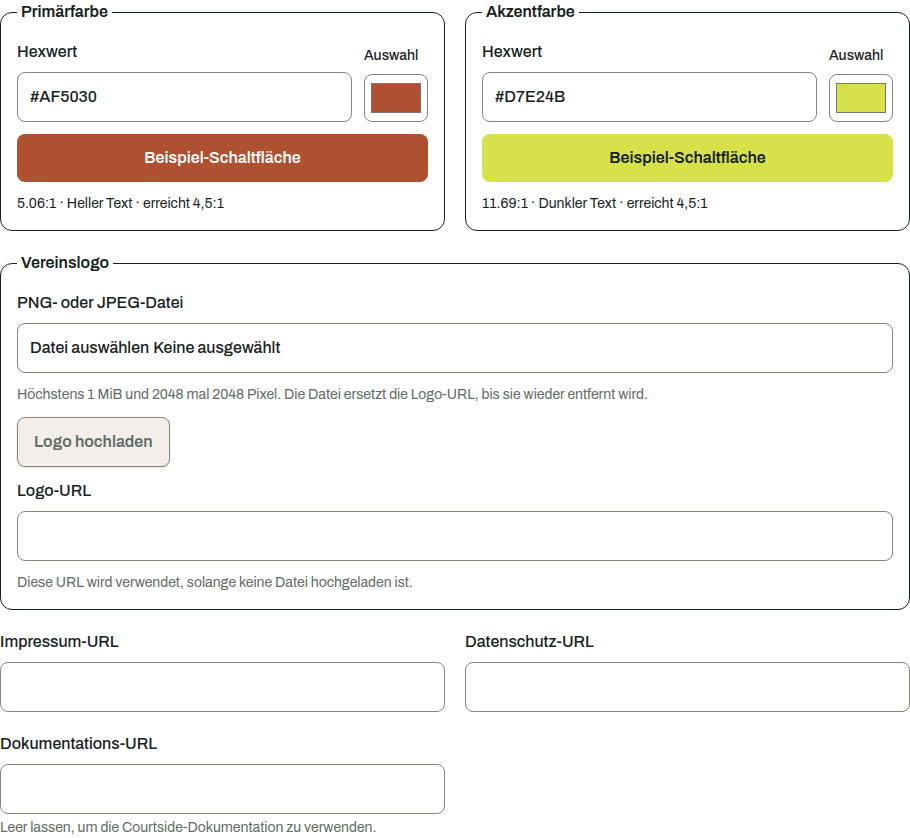
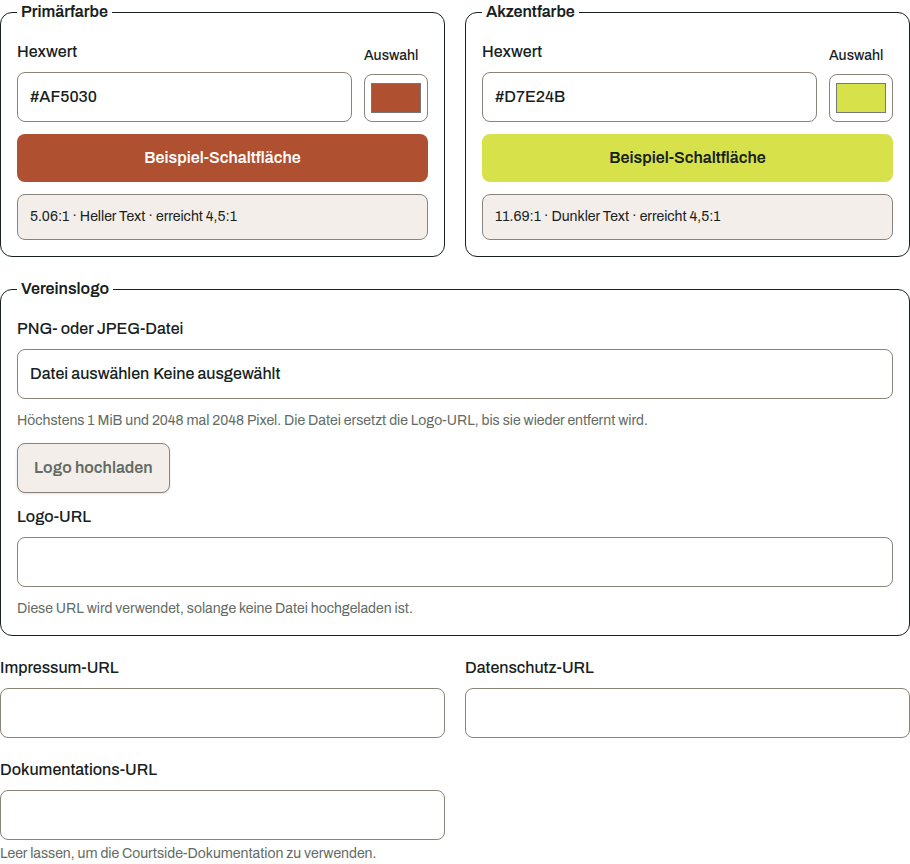
feat: give notices a warning and an informational tone (#1109)
* feat: give notices a warning and an informational tone

Alert knew only error and success, so a caution arrived as a red box with
role="alert", the same as a failed request. It now has warning and info
tones that announce themselves as status, and every tone draws its colours
from --cs-notice-* tokens defined for both appearances. Error and success
keep the colours they had.

The bounded change-log search, the club colour contrast warning, the
offline notices, the operational log caveats and the booking grid notice
move to the warning tone; the password-changed notice and the retention
note to info. The environment banners and two inline error texts leave
the fixed palette for the same tokens.

Closes #1083

* test: keep fixed palette colours out of the frontend

* fix: keep the environment banner loud and the contrast region in place

The UAT and performance banners and the missing-identity banner took the
inline notice tokens and faded into the page; they get their own
--cs-environment-* tokens with the fills they had. The colour contrast
result stays one output element whose tone moves between info and
warning, because a live region inserted with its content is not
announced when the ratio crosses 4.5:1.

The password-changed notice becomes a success, the permanent provenance
caveat an info, and a failed service-worker registration a warning. The
palette guard also reads CSS, arbitrary hex colours and Tailwind theme
[…]

diff --git a/frontend/e2e/bootstrap-admin.spec.ts b/frontend/e2e/bootstrap-admin.spec.ts
@@ -766,6 +766,45 @@ test("a disabled button and a focused field read differently from their resting 
   }
 });
 
+test("a caution reads as a warning rather than a failure in both appearances", async ({ page }) => {
+  // given
+  await page.goto("/login");
+  await page.getByTestId("username").fill("configuration-admin");
+  await page.getByTestId("password").fill("temporary-password");
+  await page.getByTestId("login-submit").click();
+  await page.getByTestId("administration-link").click();
+  await page.getByTestId("admin-configuration-link").click();
+  await expect(page.getByTestId("admin-configuration-view")).toBeVisible();
+  const caution = page.getByTestId("primary-color-contrast");
+
+  // when
+  await page.getByTestId("primary-color-value").fill("#777777");
+
+  // then
+  await expect(caution, "a caution is announced politely, not as an alert").toHaveRole("status");
+  for (const appearance of ["dark", "light"] as const) {
+    if (appearance === "light") await selectPreference(page, "#theme-preference", appearance);
+    const tone = (name: string) => page.evaluate((token) => {
+      const probe = document.createElement("span");
+      probe.style.background = `var(${token}-surface)`;
+      probe.style.color = `var(${token}-text)`;
+      document.body.append(probe);
+      const style = getComputedStyle(probe);
+      const colours = { background: style.backgroundColor, text: style.color };
+      probe.remove();
+      return colours;
+    }, name);
+    const warning = await tone("--cs-notice-warning");
+    const error = await tone("--cs-notice-error");
+
+    await expect(caution, `${appearance}: a caution takes the warning surface`).toHaveCSS("background-color", warning.background);
+    await expect(caution, `${appearance}: a caution takes the warning text`).toHaveCSS("color", warning.text);
+    expect(warning.background, `${appearance}: the warning surface must differ from the error surface`).not.toBe(error.background);
+    expect(await renderedContrast(page, caution, "color", caution), `${appearance}: the caution stays readable`)
+      .toBeGreaterThanOrEqual(4.5);
+  }
+});
+
 test("an admin adds a person, gives them an account, and that person signs in and books", async ({ page, journeyService }) => {
   // given
   await page.goto("/login");

diff --git a/frontend/src/views/AdminConfigurationView.test.tsx b/frontend/src/views/AdminConfigurationView.test.tsx
@@ -158,6 +158,25 @@ describe("AdminConfigurationView", () => {
     expect(screen.getByTestId("primary-color-preview")).toHaveStyle({ backgroundColor: "#777777" });
     expect(screen.getByTestId("primary-color-contrast")).toHaveTextContent("4.33:1");
     expect(screen.getByTestId("primary-color-contrast")).toHaveTextContent("does not reach 4.5:1");
+    expect(screen.getByTestId("primary-color-contrast").className, "a failing ratio is shown in the warning tone")
+      .toContain("bg-(--cs-notice-warning-surface)");
+  });
+
+  it("given a primary colour that passes, when a new one fails, then the same live region reports the change", async () => {
+    // given
+    render(<MemoryRouter><UnsavedChangesProvider><AdminConfigurationView configurationChanged={() => undefined} /></UnsavedChangesProvider></MemoryRouter>);
+    const picker = await screen.findByTestId("primary-color-picker");
+    fireEvent.change(picker, { target: { value: "#17211d" } });
+    const passing = screen.getByTestId("primary-color-contrast");
+    expect(passing).toHaveTextContent("reaches 4.5:1");
+
+    // when
+    fireEvent.change(picker, { target: { value: "#777777" } });
+
+    // then
+    expect(screen.getByTestId("primary-color-contrast"), "a region inserted with its content is not announced").toBe(passing);
+    expect(passing).toHaveTextContent("does not reach 4.5:1");
+    expect(passing.tagName, "a computed result stays an output").toBe("OUTPUT");
   });
 
   it("given a high contrast accent colour, when it is shown, then the preview names the automatic text tone", async () => {
@@ -168,6 +187,8 @@ describe("AdminConfigurationView", () => {
     expect(await screen.findByTestId("accent-color-picker")).toHaveValue("#d7e24b");
     expect(screen.getByTestId("accent-color-contrast")).toHaveTextContent("Dark text");
     expect(screen.getByTestId("accent-color-contrast")).toHaveTextContent("reaches 4.5:1");
+    expect(screen.getByTestId("accent-color-contrast").className, "a passing ratio carries no warning")
+      .not.toContain("--cs-notice-warning");
   });
 
   it("given a board logo file, when uploading it, then the effective preview and shell configuration change", async () => {

diff --git a/frontend/src/views/AdminConfigurationView.tsx b/frontend/src/views/AdminConfigurationView.tsx
@@ -15,6 +15,7 @@ import {
 import { useReportedFailure } from "../failures/useReportedFailure";
 import { LocaleSelect } from "../components/LocaleSelect";
 import { Alert } from "../components/Alert";
+import { noticeColours } from "../components/noticeTones";
 import { Button } from "../components/Button";
 import { TextField } from "../components/TextField";
 import { SuccessFeedback } from "../components/SuccessFeedback";
@@ -39,6 +40,11 @@ function BrandColorField({ kind, label, value, changed }: {
   const { t } = useTranslation();
   const contrast = brandContrast(value);
   const id = `${kind}-color`;
+  const contrastSummary = contrast && t("admin.config.colorContrast", {
+    ratio: contrast.ratio.toFixed(2),
+    tone: t(contrast.tone === "dark" ? "admin.config.colorDarkText" : "admin.config.colorLightText"),
+    result: t(contrast.ratio >= 4.5 ? "admin.config.colorContrastPass" : "admin.config.colorContrastWarning")
+  });
   return <fieldset className="min-w-0 grid gap-3 rounded-xl border p-4">
     <legend className="px-1 font-semibold">{label}</legend>
     <div className="grid grid-cols-[minmax(0,1fr)_4rem] items-end gap-3">
@@ -56,12 +62,9 @@ function BrandColorField({ kind, label, value, changed }: {
               style={{ backgroundColor: value, color: contrast.textColor }}>
         {t("admin.config.colorPreview")}
       </button>
-      <output data-testid={`${id}-contrast`} className={contrast.ratio >= 4.5 ? "text-sm" : "text-sm font-semibold text-amber-700 dark:text-amber-300"}>
-        {t("admin.config.colorContrast", {
-          ratio: contrast.ratio.toFixed(2),
-          tone: t(contrast.tone === "dark" ? "admin.config.colorDarkText" : "admin.config.colorLightText"),
-          result: t(contrast.ratio >= 4.5 ? "admin.config.colorContrastPass" : "admin.config.colorContrastWarning")
-        })}
+      <output data-testid={`${id}-contrast`}
+              className={`rounded-lg border p-3 text-sm ${noticeColours(contrast.ratio >= 4.5 ? "info" : "warning")}`}>
+        {contrastSummary}
       </output>
     </>}
   </fieldset>;

diff --git a/frontend/src/components/BuildIdentity.tsx b/frontend/src/components/BuildIdentity.tsx
@@ -85,7 +85,7 @@ export function BuildIdentity({ source }: BuildIdentityProps) {
         <dt>{t("build.environment")}</dt><dd>{source.environment}</dd>
       </dl>
       <a className="mt-4 inline-block underline hover:no-underline" href={source.sourceUrl}>{t("footer.source")}</a>
-      {copyFailed && <p role="alert" className="mt-4 text-sm text-red-800 dark:text-red-200">{t("build.copyFailed")}</p>}
+      {copyFailed && <p role="alert" className="text-destructive mt-4 text-sm">{t("build.copyFailed")}</p>}
       <div className="mt-6 flex justify-end gap-3">
         <Button variant="primary" type="button" autoFocus data-testid="copy-build-identity" className="px-4 py-2" disabled={isCopying} onClick={() => void copyDiagnostics()}>
           {isCopied ? t("build.copied") : t("build.copy")}
@@ -99,12 +99,12 @@ export function BuildIdentity({ source }: BuildIdentityProps) {
 export function EnvironmentMarker({ source, identityStatus = "available" }: EnvironmentMarkerProps) {
   const { t } = useTranslation();
   if (identityStatus !== "available") {
-    return <div data-testid="environment-warning" role="alert" className="bg-red-200 px-5 py-2 text-center font-semibold text-red-950">
+    return <div data-testid="environment-warning" role="alert" className="bg-(--cs-environment-error-surface) px-5 py-2 text-center font-semibold text-(--cs-environment-error-text)">
       {t(identityStatus === "loading" ? "environment.loading" : "environment.unavailable")}
     </div>;
   }
   return source?.environment === "UAT" || source?.environment === "PERFORMANCE"
-    ? <div data-testid="environment-marker" role="status" className="bg-amber-200 px-5 py-2 text-center font-semibold text-amber-950">
+    ? <div data-testid="environment-marker" role="status" className="bg-(--cs-environment-warning-surface) px-5 py-2 text-center font-semibold text-(--cs-environment-warning-text)">
       {t(source.environment === "UAT" ? "environment.uat" : "environment.performance")}
     </div>
     : null;

diff --git a/frontend/src/styles.css b/frontend/src/styles.css
@@ -25,6 +25,22 @@
   --cs-current-time: var(--cs-ball);
   --cs-destructive: #ff8a80;
   --cs-destructive-text: #30110f;
+  --cs-notice-error-surface: oklch(25.8% 0.092 26.042);
+  --cs-notice-error-border: oklch(50.5% 0.213 27.518);
+  --cs-notice-error-text: oklch(93.6% 0.032 17.717);
+  --cs-notice-warning-surface: oklch(27.9% 0.077 45.635);
+  --cs-notice-warning-border: oklch(55.5% 0.163 48.998);
+  --cs-notice-warning-text: oklch(96.2% 0.059 95.617);
+  --cs-notice-success-surface: oklch(26.2% 0.051 172.552);
+  --cs-notice-success-border: oklch(50.8% 0.118 165.612);
+  --cs-notice-success-text: oklch(95% 0.052 163.051);
+  --cs-environment-warning-surface: oklch(92.4% 0.12 95.746);
+  --cs-environment-warning-text: oklch(27.9% 0.077 45.635);
+  --cs-environment-error-surface: oklch(88.5% 0.062 18.334);
+  --cs-environment-error-text: oklch(25.8% 0.092 26.042);
+  --cs-notice-info-surface: var(--cs-raised);
+  --cs-notice-info-border: var(--cs-border);
+  --cs-notice-info-text: var(--cs-text);
   font-family: "Archivo Variable", Archivo, ui-sans-serif, system-ui, sans-serif;
   color: var(--cs-text);
   background: var(--cs-page);
@@ -45,6 +61,15 @@
   --cs-current-time: var(--cs-clay);
   --cs-destructive: #a82820;
   --cs-destructive-text: #ffffff;
+  --cs-notice-error-surface: oklch(97.1% 0.013 17.38);
+  --cs-notice-error-border: oklch(80.8% 0.114 19.571);
+  --cs-notice-error-text: oklch(39.6% 0.141 25.723);
+  --cs-notice-warning-surface: oklch(98.7% 0.022 95.277);
+  --cs-notice-warning-border: oklch(87.9% 0.169 91.605);
+  --cs-notice-warning-text: oklch(41.4% 0.112 45.904);
+  --cs-notice-success-surface: oklch(97.9% 0.021 166.113);
+  --cs-notice-success-border: oklch(84.5% 0.143 164.978);
+  --cs-notice-success-text: oklch(37.8% 0.077 168.94);
 }
 
 body {

diff --git a/frontend/src/views/AdminOperationalLogsView.tsx b/frontend/src/views/AdminOperationalLogsView.tsx
@@ -142,10 +142,10 @@ export function AdminOperationalLogsView() {
         {page.availability === "UNAVAILABLE"
           ? <Alert testId="operational-logs-unavailable">{t("operationalLogs.unavailable")}</Alert>
           : <>
-            <Alert testId="operational-logs-provenance-warning">{t("operationalLogs.provenanceWarning")}</Alert>
-            {page.retentionTruncated && <Alert testId="operational-logs-retention-warning">{t("operationalLogs.retentionWarning")}</Alert>}
-            {page.searchIncomplete && <Alert testId="operational-logs-incomplete-warning">{t("operationalLogs.incompleteWarning")}</Alert>}
-            {page.droppedRecords > 0 && <Alert testId="operational-logs-dropped-warning">{t("operationalLogs.droppedWarning", { count: page.droppedRecords })}</Alert>}
+            <Alert tone="info" testId="operational-logs-provenance-warning">{t("operationalLogs.provenanceWarning")}</Alert>
+            {page.retentionTruncated && <Alert tone="info" testId="operational-logs-retention-warning">{t("operationalLogs.retentionWarning")}</Alert>}
+            {page.searchIncomplete && <Alert tone="warning" testId="operational-logs-incomplete-warning">{t("operationalLogs.incompleteWarning")}</Alert>}
+            {page.droppedRecords > 0 && <Alert tone="warning" testId="operational-logs-dropped-warning">{t("operationalLogs.droppedWarning", { count: page.droppedRecords })}</Alert>}
             {entries.length === 0
               ? <p data-testid="operational-logs-empty">{t("operationalLogs.empty")}</p>
               : <div className="overflow-x-auto"><table className="w-full text-left">

diff --git a/frontend/src/components/Alert.test.tsx b/frontend/src/components/Alert.test.tsx
@@ -1,0 +1,30 @@
+import { render, screen } from "@testing-library/react";
+import { describe, expect, it } from "vitest";
+import { Alert } from "./Alert";
+
+describe("Alert", () => {
+  it.each([
+    ["error", "alert", "--cs-notice-error"],
+    ["warning", "status", "--cs-notice-warning"],
+    ["info", "status", "--cs-notice-info"],
+    ["success", "status", "--cs-notice-success"]
+  ] as const)("given the %s tone, when it is shown, then it takes its own role and tokens", (tone, role, token) => {
+    // when
+    render(<Alert tone={tone} testId="notice">Notice</Alert>);
+
+    // then
+    const notice = screen.getByTestId("notice");
+    expect(notice, `${tone} announces itself as ${role}`).toHaveAttribute("role", role);
+    expect(notice.className, `${tone} draws its colours from ${token}`).toContain(`bg-(${token}-surface)`);
+    expect(notice.className, `${tone} draws its border from ${token}`).toContain(`border-(${token}-border)`);
+    expect(notice.className, `${tone} draws its text from ${token}`).toContain(`text-(${token}-text)`);
+  });
+
+  it("given no tone, when it is shown, then it is announced as an error", () => {
+    // when
+    render(<Alert testId="notice">Failed</Alert>);
+
+    // then
+    expect(screen.getByTestId("notice")).toHaveAttribute("role", "alert");
+  });
+});

diff --git a/frontend/src/views/LoginView.tsx b/frontend/src/views/LoginView.tsx
@@ -35,7 +35,7 @@ export function LoginView({ refreshSession, passwordChanged = false }: { refresh
   return <section data-testid="login-view" className="surface-panel w-full max-w-md rounded-2xl border p-6 shadow-[0_20px_50px_var(--cs-shadow)] sm:p-8">
     <h1 className="text-2xl font-bold">{t("auth.signIn")}</h1>
     <form className="mt-6 grid gap-5" onSubmit={(event) => void submit(event)}>
-      {passwordChanged && <Alert>{t("password.changed")}</Alert>}
+      {passwordChanged && <Alert tone="success">{t("password.changed")}</Alert>}
       {error && <Alert>{error}</Alert>}
       <TextField id="username" name="username" label={t("auth.username")} data-testid="username" autoComplete="username" required autoFocus />
       <TextField id="password" name="password" label={t("auth.password")} data-testid="password" type="password" autoComplete="current-password" required />

diff --git a/frontend/src/components/BuildIdentity.test.tsx b/frontend/src/components/BuildIdentity.test.tsx
@@ -31,6 +31,8 @@ describe("BuildIdentity", () => {
 
     // then
     expect(screen.getByTestId("environment-marker")).toHaveTextContent("UAT");
+    expect(screen.getByTestId("environment-marker").className, "the marker keeps its strong environment fill")
+      .toContain("bg-(--cs-environment-warning-surface)");
   });
 
   it("given a performance build, when rendered, then the disposable environment is identified", () => {
@@ -47,6 +49,8 @@ describe("BuildIdentity", () => {
 
     // then
     expect(screen.getByTestId("environment-warning")).toHaveAttribute("role", "alert");
+    expect(screen.getByTestId("environment-warning").className, "the missing identity keeps its strong environment fill")
+      .toContain("bg-(--cs-environment-error-surface)");
   });
 
   it("given build metadata, when opening details, then complete diagnostics can be copied", async () => {

diff --git a/frontend/src/components/Alert.tsx b/frontend/src/components/Alert.tsx
@@ -1,14 +1,12 @@
 import type { ReactNode } from "react";
+import { noticeColours, type AlertTone } from "./noticeTones";
 
 export function Alert({ children, tone = "error", testId }: {
   children: ReactNode;
-  tone?: "error" | "success";
+  tone?: AlertTone;
   testId?: string;
 }) {
-  const colors = tone === "success"
-    ? "border-emerald-300 bg-emerald-50 text-emerald-900 dark:border-emerald-700 dark:bg-emerald-950 dark:text-emerald-100"
-    : "border-red-300 bg-red-50 text-red-900 dark:border-red-700 dark:bg-red-950 dark:text-red-100";
-  return <div data-testid={testId} role={tone === "error" ? "alert" : "status"} className={`rounded-lg border p-3 ${colors}`}>
+  return <div data-testid={testId} role={tone === "error" ? "alert" : "status"} className={`rounded-lg border p-3 ${noticeColours(tone)}`}>
     {children}
   </div>;
 }

diff --git a/frontend/src/views/BookingDialog.tsx b/frontend/src/views/BookingDialog.tsx
@@ -144,7 +144,7 @@ export function BookingDialog({ selection, grid, courts, allocations, canChooseS
           {durations.map((minutes) => <option key={minutes} value={minutes}>{t("booking.durationMinutes", { count: minutes })}</option>)}
         </select>
       </label>
-      {boundLeavesNoPeriod && <Alert testId="booking-no-duration">{t("booking.boundBelowSlotGrid")}</Alert>}
+      {boundLeavesNoPeriod && <Alert tone="warning" testId="booking-no-duration">{t("booking.boundBelowSlotGrid")}</Alert>}
       {canChooseSeveralCourts
         ? <fieldset className="mt-5 grid gap-2" aria-invalid={fieldViolations("courtIds").length > 0} aria-describedby={describedBy("courtIds")}>
           <legend className="font-semibold">{t("booking.courts")}</legend>

diff --git a/frontend/src/App.tsx b/frontend/src/App.tsx
@@ -259,7 +259,7 @@ export function App() {
     <EnvironmentMarker source={source} identityStatus={identityStatus} />
     <main className="flex flex-1 items-start justify-center px-4 py-8">
       <div className="flex w-full flex-col items-center gap-4">
-      {offline && <div data-testid="offline-status" className="w-full max-w-7xl"><Alert>{t("status.offline")}</Alert></div>}
+      {offline && <div data-testid="offline-status" className="w-full max-w-7xl"><Alert tone="warning">{t("status.offline")}</Alert></div>}
       {session
         ? <AppRoutes session={session} refreshSession={refreshSession} passwordChanged={passwordChanged}
           initialPasswordChanged={initialPasswordChanged} signedOut={signOut}
